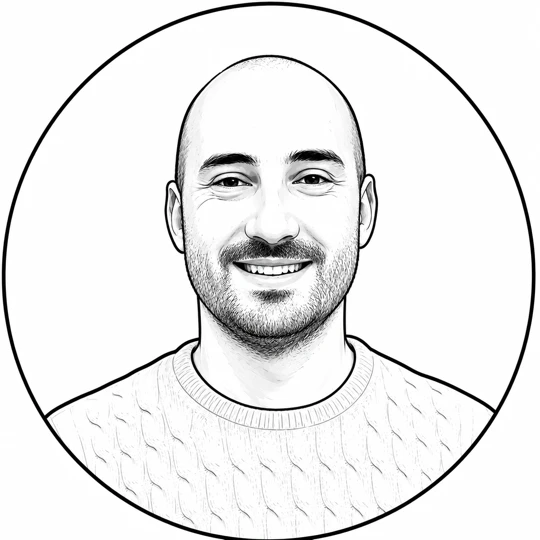
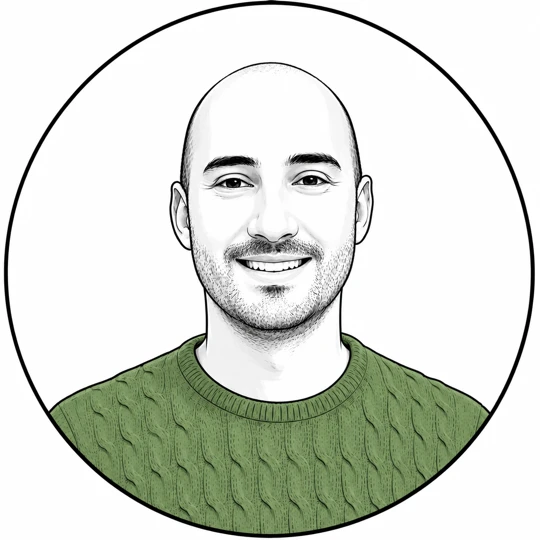
Refresh profile portrait + lowercase tagline
New line-art portrait with the green sweater (1254x1254 PNG → 540x540 WebP @ q90 = 40 KB, ~38x smaller). Lowercase 'Backend' in the tagline so all dot-separated terms match.

diff --git a/_pages/about.md b/_pages/about.md
@@ -2,7 +2,7 @@
 layout: about
 title: about
 permalink: /
-description: Backend · distributed systems · edge & cloud
+description: backend · distributed systems · edge & cloud
 
 profile:
   align: right
